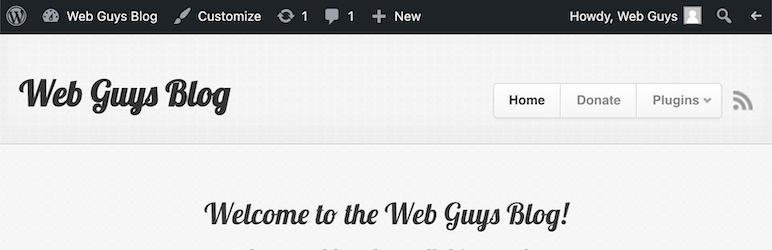
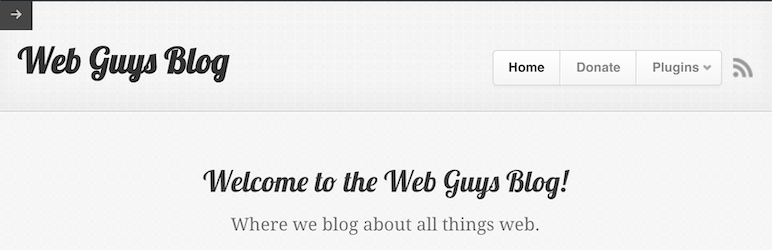
updated plugin assets, fixes #9

diff --git a/hide-wp-toolbar.php b/hide-wp-toolbar.php
@@ -3,7 +3,7 @@
 Plugin Name: Hide WP Toolbar
 Plugin URI: http://blog.webguysaz.com/hide-wp-toolbar-wordpress-plugin/
 Description: The plugin adds a clickable button to the right side of the WordPress Toolbar that will show or hide the bar with nice transitions.
-Version: 2.6
+Version: 2.6.1
 Author: Web Guys
 Author URI: http://webguysaz.com
 Author Email: jeremy@webguysaz.com
@@ -53,7 +53,7 @@ function hide_wp_toolbar_add_stylesheet() {
 
 	if(!is_admin() && is_user_logged_in()){
 		// Register the style for plugin
-		wp_enqueue_style( 'hide-wp-toolbar-style', plugins_url( 'style.css', __FILE__ ), array('dashicons'), '2.6'  );
+		wp_enqueue_style( 'hide-wp-toolbar-style', plugins_url( 'style.css', __FILE__ ), array('dashicons'), '2.6.1'  );
 	}
 }
 
